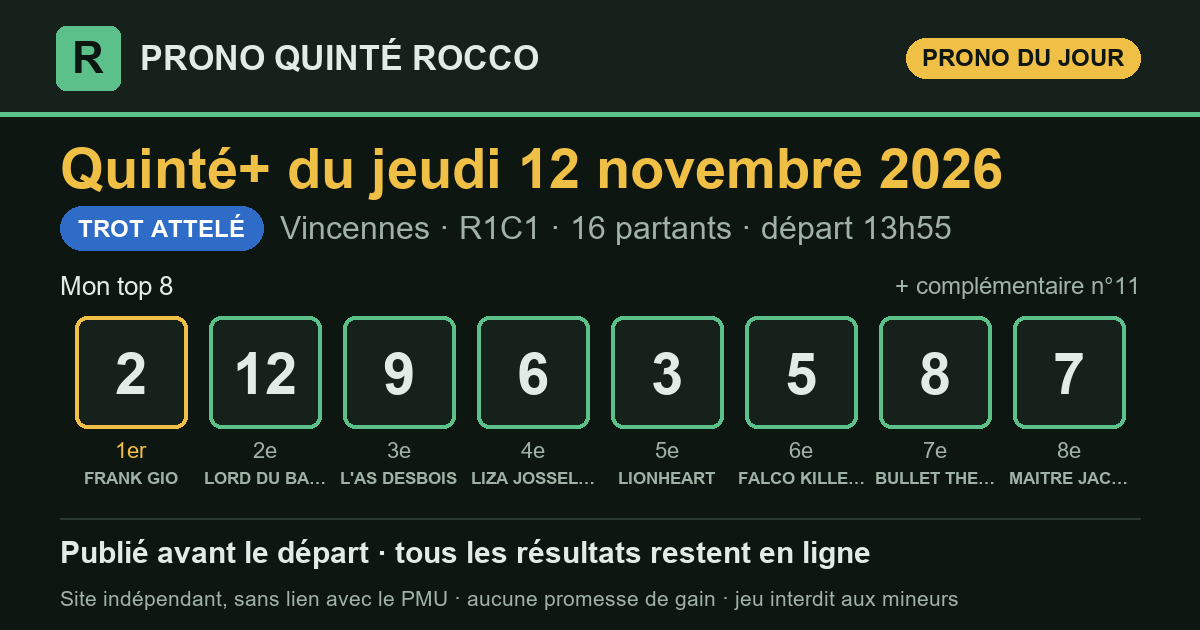
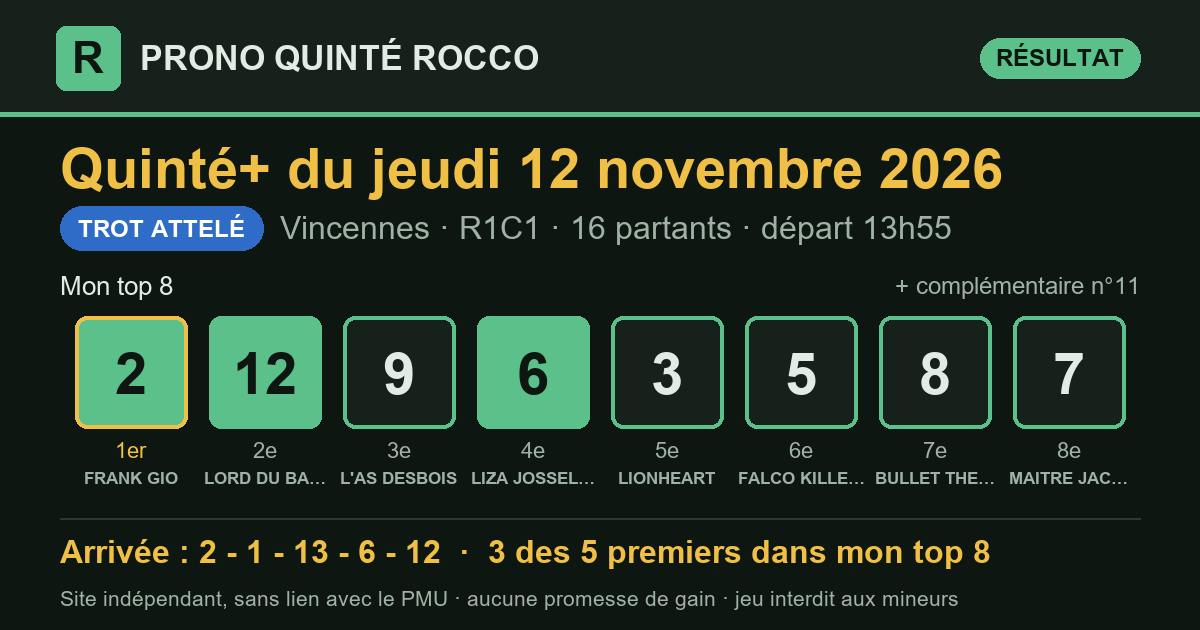
Résultat du Quinté+ 2026-11-12 Vincennes R1C1 — publié le 12/11/2026 14:10 (heure de Paris)

diff --git a/partants.html b/partants.html
@@ -3,7 +3,7 @@
 <head>
 <meta charset="utf-8">
 <meta name="viewport" content="width=device-width, initial-scale=1, viewport-fit=cover">
-<title>Partants du Quinté+ du jeudi 12 novembre 2026 : Prix Marcel Laurent — Prono Quinté Rocco</title>
+<title>Partants du Quinté+ du vendredi 13 novembre 2026 : Grand Prix du Vendredi 13 (prix Mizar) — Prono Quinté Rocco</title>
 <meta name="description" content="Les partants du prochain Quinté+ (programme officiel du PMU), avec le rang de chaque cheval dans mon prono et les liens vers les pronostics de la presse.">
 <link rel="canonical" href="https://prono-quinte-rocco.fr/partants.html">
 <link rel="stylesheet" href="style.css?v=16feb868">
@@ -13,7 +13,7 @@
 <meta property="og:site_name" content="Prono Quinté Rocco">
 <meta property="og:locale" content="fr_FR">
 <meta property="og:type" content="website">
-<meta property="og:title" content="Partants du Quinté+ du jeudi 12 novembre 2026 : Prix Marcel Laurent — Prono Quinté Rocco">
+<meta property="og:title" content="Partants du Quinté+ du vendredi 13 novembre 2026 : Grand Prix du Vendredi 13 (prix Mizar) — Prono Quinté Rocco">
 <meta property="og:description" content="Les partants du prochain Quinté+ (programme officiel du PMU), avec le rang de chaque cheval dans mon prono et les liens vers les pronostics de la presse.">
 <meta property="og:url" content="https://prono-quinte-rocco.fr/partants.html">
 <meta name="twitter:card" content="summary">
@@ -30,105 +30,110 @@
   <p class="surtitre">Programme officiel du PMU</p>
   <h1>Les partants du prochain Quinté+</h1>
   <div class="fiche-course">
-    <p class="fiche-date">Jeudi 12 novembre 2026</p>
-    <div class="fiche-rc"><span class="pastille" title="Réunion 1">R1</span><span class="pastille" title="Course 1">C1</span><span class="fiche-nom">Prix Marcel Laurent</span></div>
-    <p class="meta"><span class="type t-attele">Trot attelé</span>Vincennes · 2 100 m · 16 partants</p>
-    <p class="fiche-depart">Départ <b>13:55</b> <span>heure de Paris</span></p>
+    <p class="fiche-date">Vendredi 13 novembre 2026</p>
+    <div class="fiche-rc"><span class="pastille" title="Réunion 1">R1</span><span class="pastille" title="Course 4">C4</span><span class="fiche-nom">Grand Prix du Vendredi 13 (prix Mizar)</span></div>
+    <p class="meta"><span class="type t-attele">Trot attelé</span>Vincennes · 2 100 m · 18 partants</p>
+    <p class="fiche-depart">Départ <b>20:15</b> <span>heure de Paris</span></p>
   </div>
   <p class="surtitre">Les pronostics ailleurs sur le web</p>
-  <div class="liens"><a class="lien-ext" href="https://www.turfoo.fr/programmes-courses/261112/reunion1-vincennes/course1-prix-marcel-laurent/pronostics-presse/" rel="noopener" target="_blank"><b>Les pronostics de la presse →</b><span>sur Turfoo (site extérieur)</span></a><a class="lien-ext" href="https://www.geny.com/programme/2026-11-12" rel="noopener" target="_blank"><b>Partants et pronostics →</b><span>programme du jour sur Geny (site extérieur)</span></a></div>
+  <div class="liens"><a class="lien-ext" href="https://www.turfoo.fr/programmes-courses/261113/reunion1-vincennes/course4-grand-prix-du-vendredi-13-prix-mizar/pronostics-presse/" rel="noopener" target="_blank"><b>Les pronostics de la presse →</b><span>sur Turfoo (site extérieur)</span></a><a class="lien-ext" href="https://www.geny.com/programme/2026-11-13" rel="noopener" target="_blank"><b>Partants et pronostics →</b><span>programme du jour sur Geny (site extérieur)</span></a></div>
   <div class="liste-boite"><table class="liste-partants">
     <thead><tr><th>N°</th><th>Cheval</th><th class="cote"><span class="long">Cote du matin</span><span class="court">Cote</span></th>
     <th class="ia"><span class="long">Mon prono</span><span class="court">Prono</span></th></tr></thead>
     <tbody><tr>
   <td><span class="tapis petit">1</span></td>
-  <td><span class="cheval">LOMBOK JIEL</span><span class="sous">P.Y. VERVA · J.L. DERSOIR</span></td>
-  <td class="cote num">26,0</td>
+  <td><span class="cheval">KAISER DES GRANGES</span><span class="sous">P.PH. PLOQUIN · Ch. NICOLE</span></td>
+  <td class="cote num">—</td>
   <td class="ia">—</td>
 </tr><tr>
   <td><span class="tapis petit">2</span></td>
-  <td><span class="cheval">FRANK GIO</span><span class="sous">M. ABRIVARD · S. GUARATO</span></td>
-  <td class="cote num">2,2</td>
-  <td class="ia"><span class="etat place">1<sup>er</sup></span></td>
+  <td><span class="cheval">KATIA DHELPA</span><span class="sous">B. ROCHARD · C. BUHIGNE</span></td>
+  <td class="cote num">—</td>
+  <td class="ia">—</td>
 </tr><tr>
   <td><span class="tapis petit">3</span></td>
-  <td><span class="cheval">LIONHEART</span><span class="sous">N. BAZIRE · N. BAZIRE</span></td>
-  <td class="cote num">62,0</td>
-  <td class="ia"><span class="etat place">5<sup>e</sup></span></td>
+  <td><span class="cheval">KAZY MERITE</span><span class="sous">A. COLLETTE · A. BUISSON</span></td>
+  <td class="cote num">—</td>
+  <td class="ia">—</td>
 </tr><tr>
   <td><span class="tapis petit">4</span></td>
-  <td><span class="cheval">MAGIC NIGHT</span><span class="sous">B. ROCHARD · PH. ALLAIRE</span></td>
-  <td class="cote num">14,0</td>
+  <td><span class="cheval">KINGSTON DE BLARY</span><span class="sous">D. THOMAIN · CL. THOMAIN</span></td>
+  <td class="cote num">—</td>
   <td class="ia">—</td>
 </tr><tr>
   <td><span class="tapis petit">5</span></td>
-  <td><span class="cheval">FALCO KILLER GAR</span><span class="sous">CL. DUVALDESTIN · TH. DUVALDESTIN</span></td>
-  <td class="cote num">13,0</td>
-  <td class="ia"><span class="etat place">6<sup>e</sup></span></td>
+  <td><span class="cheval">KING LOOK</span><span class="sous">THEO DUVALDESTIN · TH. DUVALDESTIN</span></td>
+  <td class="cote num">—</td>
+  <td class="ia">—</td>
 </tr><tr>
   <td><span class="tapis petit">6</span></td>
-  <td><span class="cheval">LIZA JOSSELYN</span><span class="sous">J.M. BAZIRE · N. BAZIRE</span></td>
-  <td class="cote num">6,0</td>
-  <td class="ia"><span class="etat place">4<sup>e</sup></span></td>
+  <td><span class="cheval">EMINENT KRONOS</span><span class="sous">J. UNTERSTEINER · J. UNTERSTEINER</span></td>
+  <td class="cote num">—</td>
+  <td class="ia">—</td>
 </tr><tr>
   <td><span class="tapis petit">7</span></td>
-  <td><span class="cheval">MAITRE JACQUES</span><span class="sous">LEO ABRIVARD · L.CL. ABRIVARD</span></td>
-  <td class="cote num">43,0</td>
-  <td class="ia"><span class="etat place">8<sup>e</sup></span></td>
+  <td><span class="cheval">KELLY JANE</span><span class="sous">J. DUBOIS · J. DUBOIS</span></td>
+  <td class="cote num">—</td>
+  <td class="ia">—</td>
 </tr><tr>
   <td><span class="tapis petit">8</span></td>
-  <td><span class="cheval">BULLET THE BLUESKY</span><span class="sous">D. WAJERSTEN · Daniel WAJERSTEN</span></td>
-  <td class="cote num">15,0</td>
-  <td class="ia"><span class="etat place">7<sup>e</sup></span></td>
+  <td><span class="cheval">SAVASTANO</span><span class="sous">F. NIVARD · A. KOLGJINI</span></td>
+  <td class="cote num">—</td>
+  <td class="ia">—</td>
 </tr><tr>
   <td><span class="tapis petit">9</span></td>
-  <td><span class="cheval">L&#x27;AS DESBOIS</span><span class="sous">W. BIGEON · W. BIGEON</span></td>
-  <td class="cote num">89,0</td>
-  <td class="ia"><span class="etat place">3<sup>e</sup></span></td>
+  <td><span class="cheval">KOOL AND THE GANG</span><span class="sous">N. BAZIRE · V. MARTENS</span></td>
+  <td class="cote num">—</td>
+  <td class="ia">—</td>
 </tr><tr>
   <td><span class="tapis petit">10</span></td>
-  <td><span class="cheval">LANCIER DU GOUTIER</span><span class="sous">THEO DUVALDESTIN · TH. DUVALDESTIN</span></td>
-  <td class="cote num">13,0</td>
+  <td><span class="cheval">KHARTOUM DE LA FYE</span><span class="sous">M. IONESCU · R. DERIEUX</span></td>
+  <td class="cote num">—</td>
   <td class="ia">—</td>
 </tr><tr>
   <td><span class="tapis petit">11</span></td>
-  <td><span class="cheval">LIBERTE DE CHOISEL</span><span class="sous">A. BARRIER · S.G. DUPONT</span></td>
-  <td class="cote num">26,0</td>
-  <td class="ia"><span class="etat place">compl.</span></td>
+  <td><span class="cheval">I CAN WIN GARDENIA</span><span class="sous">P.Y. VERVA · J. LORENTZEN</span></td>
+  <td class="cote num">—</td>
+  <td class="ia">—</td>
 </tr><tr>
   <td><span class="tapis petit">12</span></td>
-  <td><span class="cheval">LORD DU BASSIN</span><span class="sous">A. ABRIVARD · L.CL. ABRIVARD</span></td>
-  <td class="cote num">12,0</td>
-  <td class="ia"><span class="etat place">2<sup>e</sup></span></td>
+  <td><span class="cheval">QUINTUS TOOMA</span><span class="sous">A. ANDRE · Vitale CIOTOLA</span></td>
+  <td class="cote num">—</td>
+  <td class="ia">—</td>
 </tr><tr>
   <td><span class="tapis petit">13</span></td>
-  <td><span class="cheval">MADRID HAUFOR</span><span class="sous">D. BONNE · CH. BIGEON</span></td>
-  <td class="cote num">25,0</td>
+  <td><span class="cheval">COSMEA</span><span class="sous">M. ABRIVARD · W. NIMCZYK</span></td>
+  <td class="cote num">—</td>
   <td class="ia">—</td>
 </tr><tr>
   <td><span class="tapis petit">14</span></td>
-  <td><span class="cheval">KOOGOO GAAGAA</span><span class="sous">R. CONGARD · N. BAZIRE</span></td>
-  <td class="cote num">177,0</td>
+  <td><span class="cheval">KOQUERY DU BUISSON</span><span class="sous">R. LAMY · TH. RAFFEGEAU</span></td>
+  <td class="cote num">—</td>
   <td class="ia">—</td>
 </tr><tr>
   <td><span class="tapis petit">15</span></td>
-  <td><span class="cheval">MILA DES COUPERIES</span><span class="sous">L.CL. ABRIVARD · L.CL. ABRIVARD</span></td>
-  <td class="cote num">138,0</td>
+  <td><span class="cheval">JUBII VANG</span><span class="sous">G. GELORMINI · CH. ERIKSSON</span></td>
+  <td class="cote num">—</td>
   <td class="ia">—</td>
 </tr><tr>
   <td><span class="tapis petit">16</span></td>
-  <td><span class="cheval">L&#x27;ECRIN D&#x27;OR</span><span class="sous">A. REBECHE · L.CL. ABRIVARD</span></td>
-  <td class="cote num">145,0</td>
+  <td><span class="cheval">NO TALKING YOU</span><span class="sous">F. OUVRIE · L. CHARBONNEL</span></td>
+  <td class="cote num">—</td>
   <td class="ia">—</td>
-</tr><tr class="np">
+</tr><tr>
   <td><span class="tapis petit">17</span></td>
-  <td><span class="cheval">MIDWAY LADY</span><span class="sous">J. DUBOIS · Sté. Ent. Etienne DUBOIS</span></td>
-  <td class="cote num">NP</td>
+  <td><span class="cheval">ELEONORA GRIF</span><span class="sous">M. MOTTIER · M. MOTTIER</span></td>
+  <td class="cote num">—</td>
+  <td class="ia">—</td>
+</tr><tr>
+  <td><span class="tapis petit">18</span></td>
+  <td><span class="cheval">PURE STEEL</span><span class="sous">A. ABRIVARD · H.E. BONDO</span></td>
+  <td class="cote num">—</td>
   <td class="ia">—</td>
 </tr></tbody>
   </table></div>
-  <p class="meta">La colonne « Mon prono » donne le rang de chaque cheval dans mon top 8, tel qu&#x27;il est publié sur ce site. Sous chaque cheval : driver · entraîneur. Partants et cotes : programme
-  officiel du PMU, lu le 12/11 à 10:20 (heure de Paris). NP = non-partant.</p>
+  <p class="meta">Mon prono de cette course sera publié le matin de la course, avant le départ. Sous chaque cheval : driver · entraîneur. Partants et cotes : programme
+  officiel du PMU, lu le 12/11 à 14:10 (heure de Paris). NP = non-partant.</p>
 </section>
 </main>
 <footer class="pied">

diff --git a/index.html b/index.html
@@ -16,7 +16,7 @@
 <meta property="og:title" content="Pronostics Quinté+ et Super Pick 5 du jeudi 12 novembre 2026 — Prono Quinté Rocco">
 <meta property="og:description" content="Pronostics Quinté+ (Prix Marcel Laurent) et Super Pick 5 (Prix de Cognac) du jour : mes top 8, publiés avant le départ, puis tous les résultats et le rendement réel.">
 <meta property="og:url" content="https://prono-quinte-rocco.fr/">
-<meta property="og:image" content="https://prono-quinte-rocco.fr/partage/jour-2026-11-12.png?v=8ead44d4">
+<meta property="og:image" content="https://prono-quinte-rocco.fr/partage/jour-2026-11-12.png?v=64ffb41f">
 <meta property="og:image:type" content="image/png">
 <meta property="og:image:width" content="1200">
 <meta property="og:image:height" content="630">
@@ -32,7 +32,7 @@
 <div class="jeux j-quinte" role="navigation" aria-label="Choix du jeu"><a class="jeu jeu-quinte actif" href="index.html" aria-current="true">Quinté+</a><a class="jeu jeu-sp5" href="superpick5.html">e-Super Pick5<small>entre 17 h et 19 h</small></a></div>
 <main>
 <section class="une" aria-labelledby="t-jour">
-  <p class="surtitre">Quinté+ du jour</p>
+  <p class="surtitre">Dernier Quinté+</p>
   <h1 id="t-jour">Le prono du Quinté+, résultats compris</h1>
   <p class="chapo">Chaque matin, j'étudie les partants du Quinté+ avec le logiciel que
   j'ai conçu, selon ma propre méthode, qu'une intelligence artificielle m'aide à
@@ -43,10 +43,13 @@
   <p class="meta">Prix Marcel Laurent · Vincennes · <strong>R1C1</strong> · 16 partants · <span class="lisib">lisibilité <span class="note" aria-label="note 2 sur 5" title="lisibilité 2/5 : course ouverte"><i class="on"></i><i class="on"></i><i class=""></i><i class=""></i><i class=""></i></span> 2/5</span></p>
   <div class="zone-prono">
     <h3 class="zone-titre">Mon top 8</h3>
-    <ol class="partants" aria-label="Mon top 8"><li><span class="rang">1<sup>er</sup></span><span class="tapis ">2</span><span class="nom">FRANK GIO</span></li><li><span class="rang">2<sup>e</sup></span><span class="tapis ">12</span><span class="nom">LORD DU BASSIN</span></li><li><span class="rang">3<sup>e</sup></span><span class="tapis ">9</span><span class="nom">L&#x27;AS DESBOIS</span></li><li><span class="rang">4<sup>e</sup></span><span class="tapis ">6</span><span class="nom">LIZA JOSSELYN</span></li><li><span class="rang">5<sup>e</sup></span><span class="tapis ">3</span><span class="nom">LIONHEART</span></li><li><span class="rang">6<sup>e</sup></span><span class="tapis ">5</span><span class="nom">FALCO KILLER GAR</span></li><li><span class="rang">7<sup>e</sup></span><span class="tapis ">8</span><span class="nom">BULLET THE BLUESKY</span></li><li><span class="rang">8<sup>e</sup></span><span class="tapis ">7</span><span class="nom">MAITRE JACQUES</span></li><li><span class="rang">compl.</span><span class="tapis creux">11</span><span class="nom">LIBERTE DE CHOISEL</span></li></ol>
+    <ol class="partants" aria-label="Mon top 8"><li><span class="rang">1<sup>er</sup></span><span class="tapis plein">2</span><span class="nom">FRANK GIO</span></li><li><span class="rang">2<sup>e</sup></span><span class="tapis plein">12</span><span class="nom">LORD DU BASSIN</span></li><li><span class="rang">3<sup>e</sup></span><span class="tapis ">9</span><span class="nom">L&#x27;AS DESBOIS</span></li><li><span class="rang">4<sup>e</sup></span><span class="tapis plein">6</span><span class="nom">LIZA JOSSELYN</span></li><li><span class="rang">5<sup>e</sup></span><span class="tapis ">3</span><span class="nom">LIONHEART</span></li><li><span class="rang">6<sup>e</sup></span><span class="tapis ">5</span><span class="nom">FALCO KILLER GAR</span></li><li><span class="rang">7<sup>e</sup></span><span class="tapis ">8</span><span class="nom">BULLET THE BLUESKY</span></li><li><span class="rang">8<sup>e</sup></span><span class="tapis ">7</span><span class="nom">MAITRE JACQUES</span></li><li><span class="rang">compl.</span><span class="tapis creux">11</span><span class="nom">LIBERTE DE CHOISEL</span></li></ol>
     <div class="pied-carte"><span>Analysé le 12/11 à 09:47 · en ligne le 12/11 à 09:54 · départ à 13:55 (heure de Paris)</span><span><a href="quinte/2026-11-12.html">Détail de la course</a></span></div>
   </div>
-  <div class="zone-arrivee attente"><p>L'arrivée officielle s'affichera ici après la course.</p></div>
+  <div class="zone-arrivee">
+    <div class="zone-tete"><h3 class="zone-titre">Arrivée officielle</h3><span class="etat non">3 des 5 premiers dans mon top 8</span><span class="etat gagne">mon 1er (n°2) : gagnant</span></div>
+    <ol class="partants" aria-label="Arrivée officielle"><li><span class="rang">1<sup>er</sup></span><span class="tapis plein">2</span><span class="nom">FRANK GIO</span></li><li><span class="rang">2<sup>e</sup></span><span class="tapis hors">1</span><span class="nom">LOMBOK JIEL</span></li><li><span class="rang">3<sup>e</sup></span><span class="tapis hors">13</span><span class="nom">MADRID HAUFOR</span></li><li><span class="rang">4<sup>e</sup></span><span class="tapis plein">6</span><span class="nom">LIZA JOSSELYN</span></li><li><span class="rang">5<sup>e</sup></span><span class="tapis plein">12</span><span class="nom">LORD DU BASSIN</span></li></ol>
+  </div>
 </article>
 </section>
 <section class="suivre" aria-label="Suivre et soutenir">
@@ -76,7 +79,7 @@
 </section>
 <section class="bilan" aria-labelledby="t-bilan">
   <h2 id="t-bilan">Mon bilan depuis le 8 septembre 2026</h2>
-  <div class="tableau chiffres"><div class="case"><span class="gros ">72 %</span><span class="lib">des arrivants trouvés dans mon top 8</span><span class="ref">un top 8 tiré au hasard : 51 %</span></div><div class="case"><span class="gros ">88 %</span><span class="lib">des gagnants présents dans mon top 8</span><span class="ref"></span></div><div class="case"><span class="gros ">50 %</span><span class="lib">mon 1er placé</span><span class="ref">sur 64 Quintés</span></div><div class="case"><span class="gros perte">0,93 €</span><span class="lib">rendus pour 1 € joué placé sur mon 1er</span><span class="ref">rapports officiels PMU</span></div><div class="case"><span class="gros perte">0,44 €</span><span class="lib">rendus pour 1 € joué en Quinté+ combiné sur mon top 8</span><span class="ref">56 combinaisons, rapports PMU.fr, sur 64 Quintés</span></div></div>
+  <div class="tableau chiffres"><div class="case"><span class="gros ">72 %</span><span class="lib">des arrivants trouvés dans mon top 8</span><span class="ref">un top 8 tiré au hasard : 51 %</span></div><div class="case"><span class="gros ">88 %</span><span class="lib">des gagnants présents dans mon top 8</span><span class="ref"></span></div><div class="case"><span class="gros ">50 %</span><span class="lib">mon 1er placé</span><span class="ref">sur 64 Quintés</span></div><div class="case"><span class="gros perte">0,93 €</span><span class="lib">rendus pour 1 € joué placé sur mon 1er</span><span class="ref">rapports officiels PMU</span></div><div class="case"><span class="gros perte">0,43 €</span><span class="lib">rendus pour 1 € joué en Quinté+ combiné sur mon top 8</span><span class="ref">56 combinaisons, rapports PMU.fr, sur 65 Quintés</span></div></div>
   <p class="avertissement">Moins de 1 € rendu pour 1 € joué : suivre mon prono à la lettre fait <strong>perdre de l'argent</strong> sur cette période. Il sert à analyser une course, pas à promettre un gain.</p>
 </section>
 </main>

diff --git a/quinte/2026-11-12.html b/quinte/2026-11-12.html
@@ -16,7 +16,7 @@
 <meta property="og:title" content="Pronostic Quinté+ du jeudi 12 novembre 2026 : Prix Marcel Laurent à Vincennes — Prono Quinté Rocco">
 <meta property="og:description" content="Prono Quinté+ du jeudi 12 novembre 2026 (Prix Marcel Laurent, Vincennes) : mon top 8, l&#x27;arrivée officielle et les rapports PMU.fr.">
 <meta property="og:url" content="https://prono-quinte-rocco.fr/quinte/2026-11-12.html">
-<meta property="og:image" content="https://prono-quinte-rocco.fr/partage/2026-11-12.png?v=e8383a55">
+<meta property="og:image" content="https://prono-quinte-rocco.fr/partage/2026-11-12.png?v=8dd8aa3d">
 <meta property="og:image:type" content="image/png">
 <meta property="og:image:width" content="1200">
 <meta property="og:image:height" content="630">
@@ -36,15 +36,25 @@
   <h1>Pronostic Quinté+ du jeudi 12 novembre 2026</h1>
   <p class="chapo">Prix Marcel Laurent · Vincennes · R1C1 · Attelé · 16 partants</p>
   <article class="carte-course">
-  <div class="tete"><h2>Mon prono</h2><span class="type t-attele">Trot attelé</span></div>
+  <div class="tete"><h2>Mon prono et l&#x27;arrivée officielle</h2><span class="type t-attele">Trot attelé</span></div>
   <p class="meta">Prix Marcel Laurent · Vincennes · <strong>R1C1</strong> · 16 partants · <span class="lisib">lisibilité <span class="note" aria-label="note 2 sur 5" title="lisibilité 2/5 : course ouverte"><i class="on"></i><i class="on"></i><i class=""></i><i class=""></i><i class=""></i></span> 2/5</span></p>
   <div class="zone-prono">
     <h3 class="zone-titre">Mon top 8</h3>
-    <ol class="partants" aria-label="Mon top 8"><li><span class="rang">1<sup>er</sup></span><span class="tapis ">2</span><span class="nom">FRANK GIO</span></li><li><span class="rang">2<sup>e</sup></span><span class="tapis ">12</span><span class="nom">LORD DU BASSIN</span></li><li><span class="rang">3<sup>e</sup></span><span class="tapis ">9</span><span class="nom">L&#x27;AS DESBOIS</span></li><li><span class="rang">4<sup>e</sup></span><span class="tapis ">6</span><span class="nom">LIZA JOSSELYN</span></li><li><span class="rang">5<sup>e</sup></span><span class="tapis ">3</span><span class="nom">LIONHEART</span></li><li><span class="rang">6<sup>e</sup></span><span class="tapis ">5</span><span class="nom">FALCO KILLER GAR</span></li><li><span class="rang">7<sup>e</sup></span><span class="tapis ">8</span><span class="nom">BULLET THE BLUESKY</span></li><li><span class="rang">8<sup>e</sup></span><span class="tapis ">7</span><span class="nom">MAITRE JACQUES</span></li><li><span class="rang">compl.</span><span class="tapis creux">11</span><span class="nom">LIBERTE DE CHOISEL</span></li></ol>
+    <ol class="partants" aria-label="Mon top 8"><li><span class="rang">1<sup>er</sup></span><span class="tapis plein">2</span><span class="nom">FRANK GIO</span></li><li><span class="rang">2<sup>e</sup></span><span class="tapis plein">12</span><span class="nom">LORD DU BASSIN</span></li><li><span class="rang">3<sup>e</sup></span><span class="tapis ">9</span><span class="nom">L&#x27;AS DESBOIS</span></li><li><span class="rang">4<sup>e</sup></span><span class="tapis plein">6</span><span class="nom">LIZA JOSSELYN</span></li><li><span class="rang">5<sup>e</sup></span><span class="tapis ">3</span><span class="nom">LIONHEART</span></li><li><span class="rang">6<sup>e</sup></span><span class="tapis ">5</span><span class="nom">FALCO KILLER GAR</span></li><li><span class="rang">7<sup>e</sup></span><span class="tapis ">8</span><span class="nom">BULLET THE BLUESKY</span></li><li><span class="rang">8<sup>e</sup></span><span class="tapis ">7</span><span class="nom">MAITRE JACQUES</span></li><li><span class="rang">compl.</span><span class="tapis creux">11</span><span class="nom">LIBERTE DE CHOISEL</span></li></ol>
     <div class="pied-carte"><span>Analysé le 12/11 à 09:47 · en ligne le 12/11 à 09:54 · départ à 13:55 (heure de Paris)</span><span></span></div>
   </div>
-  <div class="zone-arrivee attente"><p>L'arrivée officielle s'affichera ici après la course.</p></div>
+  <div class="zone-arrivee">
+    <div class="zone-tete"><h3 class="zone-titre">Arrivée officielle</h3><span class="etat non">3 des 5 premiers dans mon top 8</span><span class="etat gagne">mon 1er (n°2) : gagnant</span></div>
+    <ol class="partants" aria-label="Arrivée officielle"><li><span class="rang">1<sup>er</sup></span><span class="tapis plein">2</span><span class="nom">FRANK GIO</span></li><li><span class="rang">2<sup>e</sup></span><span class="tapis hors">1</span><span class="nom">LOMBOK JIEL</span></li><li><span class="rang">3<sup>e</sup></span><span class="tapis hors">13</span><span class="nom">MADRID HAUFOR</span></li><li><span class="rang">4<sup>e</sup></span><span class="tapis plein">6</span><span class="nom">LIZA JOSSELYN</span></li><li><span class="rang">5<sup>e</sup></span><span class="tapis plein">12</span><span class="nom">LORD DU BASSIN</span></li></ol>
+  </div>
 </article>
+<section class="carte-course rapports" aria-labelledby="t-rap">
+  <div class="tete"><h2 id="t-rap">Les rapports</h2></div>
+  <div class="deux">
+    <div><h3>Ce qu'aurait rendu mon prono</h3><dl class="kv"><dt>1 € placé sur mon 1er (n°2)</dt><dd>rapport manquant</dd><dt>1 € gagnant sur mon 1er</dt><dd>rapport manquant</dd><dt>Quinté+ combiné sur mon top 8 (mise 112 €)</dt><dd class="perte">0,00 €</dd><dd class="dont">aucune combinaison gagnante</dd></dl></div>
+    <div><h3>Rapports officiels</h3><dl class="kv"><dt>e-Quinté+ Ordre (2 €)</dt><dd>6 099,20 €</dd><dt>e-Quinté+ Désordre (2 €)</dt><dd>59,60 €</dd><dt>e-Bonus 4sur5 (2 €)</dt><dd>4,20 €</dd><dt>e-Bonus 3 (2 €)</dt><dd>3,80 €</dd></dl></div>
+  </div>
+</section>
 </section>
 </main>
 <footer class="pied">

diff --git a/resultats.html b/resultats.html
@@ -49,12 +49,12 @@
     <th colspan="4" class="res g-res">Le résultat officiel</th></tr>
     <tr><th>Date</th><th>Course</th><th>Top 8</th><th class="c-lis">Lisibilité</th><th class="res c-arr">Arrivée</th>
     <th class="res">Trouvés</th><th class="res">Mon 1er</th><th class="res mont">Quinté+ top 8<br><small>(mise 112 €)</small></th></tr></thead>
-    <tbody><tr class="attente">
+    <tbody><tr>
   <td class="c-date"><a href="quinte/2026-11-12.html">12/11</a></td>
   <td class="c-course">Vincennes<br><span class="meta">R1C1</span><span class="type t-attele petit">Attelé</span></td>
-  <td class="c-top8" data-label="Mon top 8"><div class="rangee"><span class="tapis petit">2</span><span class="tapis petit">12</span><span class="tapis petit">9</span><span class="tapis petit">6</span><span class="tapis petit">3</span><span class="tapis petit">5</span><span class="tapis petit">8</span><span class="tapis petit">7</span></div></td>
+  <td class="c-top8" data-label="Mon top 8"><div class="rangee"><span class="tapis plein petit">2</span><span class="tapis plein petit">12</span><span class="tapis petit">9</span><span class="tapis plein petit">6</span><span class="tapis petit">3</span><span class="tapis petit">5</span><span class="tapis petit">8</span><span class="tapis petit">7</span></div></td>
   <td class="c-lis" data-label="Lisibilité"><span class="note" aria-label="note 2 sur 5" title="lisibilité 2/5 : course ouverte"><i class="on"></i><i class="on"></i><i class=""></i><i class=""></i><i class=""></i></span> 2/5</td>
-  <td class="res c-arr" data-label="Arrivée"><span class="etat attente">en attente</span></td><td class="res num c-trouves" data-label="Trouvés">—</td><td class="res c-premier" data-label="Mon 1er"><span class="etat attente">—</span></td><td class="res mont c-mont" data-label="Quinté+ top 8 (mise 112 €)">—</td>
+  <td class="res c-arr" data-label="Arrivée"><div class="rangee"><span class="tapis plein petit" title="1er">2</span><span class="tapis hors petit" title="2e">1</span><span class="tapis hors petit" title="3e">13</span><span class="tapis plein petit" title="4e">6</span><span class="tapis plein petit" title="5e">12</span></div></td><td class="res num c-trouves" data-label="Trouvés">3/5</td><td class="res c-premier" data-label="Mon 1er"><span class="etat gagne">gagnant</span></td><td class="res mont c-mont perte" data-label="Quinté+ top 8 (mise 112 €)" title="perte nette : 112,00 €">0,00 €</td>
 </tr><tr>
   <td class="c-date"><a href="quinte/2026-11-11.html">11/11</a></td>
   <td class="c-course">Toulouse<br><span class="meta">R1C3</span><span class="type t-plat petit">Plat</span></td>
@@ -444,7 +444,7 @@
 </section>
 <section class="bilan" aria-labelledby="t-bilan">
   <h2 id="t-bilan">Mon bilan depuis le 8 septembre 2026</h2>
-  <div class="tableau chiffres"><div class="case"><span class="gros ">72 %</span><span class="lib">des arrivants trouvés dans mon top 8</span><span class="ref">un top 8 tiré au hasard : 51 %</span></div><div class="case"><span class="gros ">88 %</span><span class="lib">des gagnants présents dans mon top 8</span><span class="ref"></span></div><div class="case"><span class="gros ">50 %</span><span class="lib">mon 1er placé</span><span class="ref">sur 64 Quintés</span></div><div class="case"><span class="gros perte">0,93 €</span><span class="lib">rendus pour 1 € joué placé sur mon 1er</span><span class="ref">rapports officiels PMU</span></div><div class="case"><span class="gros perte">0,44 €</span><span class="lib">rendus pour 1 € joué en Quinté+ combiné sur mon top 8</span><span class="ref">56 combinaisons, rapports PMU.fr, sur 64 Quintés</span></div></div>
+  <div class="tableau chiffres"><div class="case"><span class="gros ">72 %</span><span class="lib">des arrivants trouvés dans mon top 8</span><span class="ref">un top 8 tiré au hasard : 51 %</span></div><div class="case"><span class="gros ">88 %</span><span class="lib">des gagnants présents dans mon top 8</span><span class="ref"></span></div><div class="case"><span class="gros ">50 %</span><span class="lib">mon 1er placé</span><span class="ref">sur 64 Quintés</span></div><div class="case"><span class="gros perte">0,93 €</span><span class="lib">rendus pour 1 € joué placé sur mon 1er</span><span class="ref">rapports officiels PMU</span></div><div class="case"><span class="gros perte">0,43 €</span><span class="lib">rendus pour 1 € joué en Quinté+ combiné sur mon top 8</span><span class="ref">56 combinaisons, rapports PMU.fr, sur 65 Quintés</span></div></div>
   <p class="avertissement">Moins de 1 € rendu pour 1 € joué : suivre mon prono à la lettre fait <strong>perdre de l'argent</strong> sur cette période. Il sert à analyser une course, pas à promettre un gain.</p>
 </section>
 </main>

diff --git a/superpick5-partants.html b/superpick5-partants.html
@@ -43,17 +43,17 @@
     <tbody><tr>
   <td><span class="tapis petit">1</span></td>
   <td><span class="cheval">KING GEORGES</span><span class="sous">D. BONNE · D. BONNE</span></td>
-  <td class="cote num">13,0</td>
+  <td class="cote num">15,0</td>
   <td class="ia"><span class="etat place">8<sup>e</sup></span></td>
 </tr><tr>
   <td><span class="tapis petit">2</span></td>
   <td><span class="cheval">KELMEC</span><span class="sous">M. IONESCU · R. DERIEUX</span></td>
-  <td class="cote num">200,0</td>
+  <td class="cote num">61,0</td>
   <td class="ia">—</td>
 </tr><tr>
   <td><span class="tapis petit">3</span></td>
   <td><span class="cheval">KOALA BLUE</span><span class="sous">L. BAUDRON · L. BAUDRON</span></td>
-  <td class="cote num">71,0</td>
+  <td class="cote num">49,0</td>
   <td class="ia">—</td>
 </tr><tr>
   <td><span class="tapis petit">4</span></td>
@@ -63,17 +63,17 @@
 </tr><tr>
   <td><span class="tapis petit">5</span></td>
   <td><span class="cheval">KEEP YOUR DREAMS</span><span class="sous">M. MOTTIER · M. MOTTIER</span></td>
-  <td class="cote num">15,0</td>
+  <td class="cote num">13,0</td>
   <td class="ia"><span class="etat place">6<sup>e</sup></span></td>
 </tr><tr>
   <td><span class="tapis petit">6</span></td>
   <td><span class="cheval">JERICHO DU RIB</span><span class="sous">N. PERRON · JOEL HALLAIS</span></td>
-  <td class="cote num">24,0</td>
+  <td class="cote num">34,0</td>
   <td class="ia">—</td>
 </tr><tr>
   <td><span class="tapis petit">7</span></td>
   <td><span class="cheval">JEREMY D&#x27;AS</span><span class="sous">TH. DROMIGNY · SEBASTIEN TRIBOURDEAU</span></td>
-  <td class="cote num">36,0</td>
+  <td class="cote num">40,0</td>
   <td class="ia"><span class="etat place">compl.</span></td>
 </tr><tr>
   <td><span class="tapis petit">8</span></td>
@@ -83,42 +83,42 @@
 </tr><tr>
   <td><span class="tapis petit">9</span></td>
   <td><span class="cheval">KING DE L&#x27;OUEST</span><span class="sous">B. ROCHARD · S.G. DUPONT</span></td>
-  <td class="cote num">2,3</td>
+  <td class="cote num">2,2</td>
   <td class="ia"><span class="etat place">1<sup>er</sup></span></td>
 </tr><tr>
   <td><span class="tapis petit">10</span></td>
   <td><span class="cheval">KENO PETTEVINIERE</span><span class="sous">P.PH. PLOQUIN · S. ROGER</span></td>
-  <td class="cote num">34,0</td>
+  <td class="cote num">31,0</td>
   <td class="ia">—</td>
 </tr><tr>
   <td><span class="tapis petit">11</span></td>
   <td><span class="cheval">KINGSLAND DE SIMM</span><span class="sous">A. ABRIVARD · L. GARCIA</span></td>
-  <td class="cote num">8,6</td>
+  <td class="cote num">15,0</td>
   <td class="ia"><span class="etat place">3<sup>e</sup></span></td>
 </tr><tr>
   <td><span class="tapis petit">12</span></td>
   <td><span class="cheval">KOMPANY VINCENT</span><span class="sous">CH. MARTENS · Sté. Ent. Christophe MARTENS</span></td>
-  <td class="cote num">10,0</td>
+  <td class="cote num">9,2</td>
   <td class="ia"><span class="etat place">2<sup>e</sup></span></td>
 </tr><tr>
   <td><span class="tapis petit">13</span></td>
   <td><span class="cheval">HAPPY PACHA</span><span class="sous">LEO ABRIVARD · L.CL. ABRIVARD</span></td>
-  <td class="cote num">752,0</td>
+  <td class="cote num">95,0</td>
   <td class="ia">—</td>
 </tr><tr>
   <td><span class="tapis petit">14</span></td>
   <td><span class="cheval">KROONER D&#x27;HERIPRE</span><span class="sous">A.A. BOULARD · R. DERIEUX</span></td>
-  <td class="cote num">250,0</td>
+  <td class="cote num">168,0</td>
   <td class="ia">—</td>
 </tr><tr>
   <td><span class="tapis petit">15</span></td>
   <td><span class="cheval">JERZINHO SPORT</span><span class="sous">D. THOMAIN · Mme CL. DESMONTILS</span></td>
-  <td class="cote num">8,4</td>
+  <td class="cote num">7,4</td>
   <td class="ia"><span class="etat place">5<sup>e</sup></span></td>
 </tr></tbody>
   </table></div>
   <p class="meta">La colonne « Mon prono » donne le rang de chaque cheval dans mon top 8, tel qu&#x27;il est publié sur ce site. Sous chaque cheval : driver · entraîneur. Partants et cotes : programme
-  officiel du PMU, lu le 12/11 à 10:20 (heure de Paris). NP = non-partant.</p>
+  officiel du PMU, lu le 12/11 à 14:10 (heure de Paris). NP = non-partant.</p>
 </section>
 </main>
 <footer class="pied">
